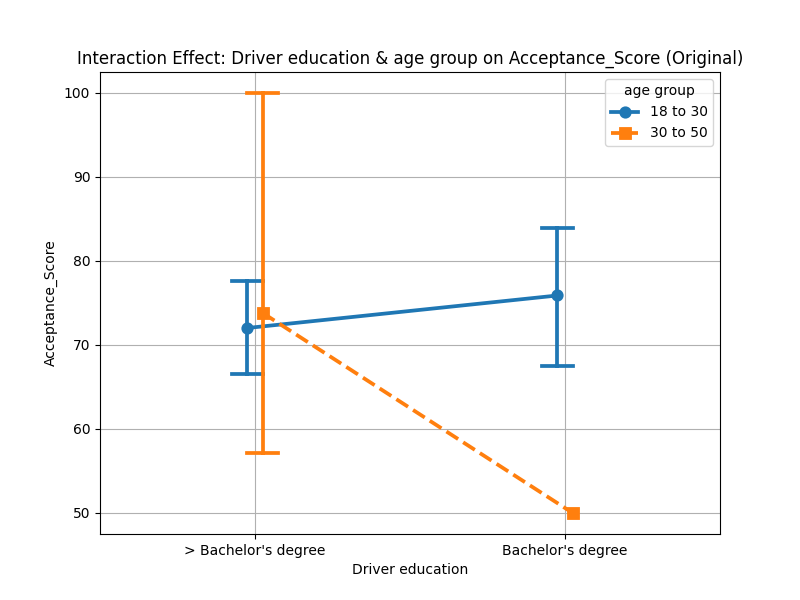
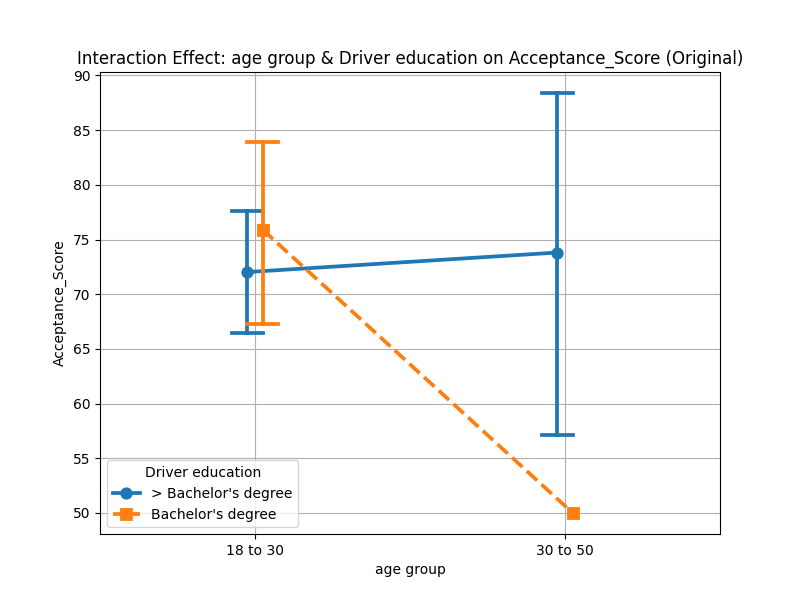
fix: improve code

diff --git a/age_education_effect_analysis.py b/age_education_effect_analysis.py
@@ -1,9 +1,7 @@
 # This code is for analysis for effect of interaction of age group and driver education on technology(adas)
 
-import seaborn as sns
-import matplotlib.pyplot as plt
 from utils import (
-    load_data, check_reliability, check_normality, calculate_acceptance_score, save_updated_data, count_combinations
+    load_data, check_reliability, check_normality, calculate_acceptance_score, save_updated_data, count_combinations,plot_interaction_effect, compute_summary_stats
 )
 from parametric_tests import two_way_anova
 from non_parametric_tests import art_anova
@@ -66,55 +64,35 @@ else:
 print("\n📊 **P-Value Results Summary:**")
 for test, p_val in p_values.items():
     if isinstance(p_val, (int, float)):  # Ensures it's a number before formatting
-        print(f"{test}: p = {p_val:.5f} {'Significant' if p_val < 0.01 else '❌ Not Significant'}")
+        print(f"{test}: p = {p_val:.5f} {'✅ Significant' if p_val < 0.1 else '❌ Not Significant'}")
     else:
         print(f"{test}: {p_val} (Invalid result, check ANOVA output)")
 
-
-
-def plot_interaction_effect(df, age_var, education_var, target_var, dataset_name):
-    """
-    Creates an interaction plot for Age Group and Driver Education on Acceptance Score.
-    Handles missing values (NaN) to avoid KeyErrors in Seaborn's pointplot.
-    """
-    # print(f"\n🔍 Unique values in '{age_var}' ({dataset_name}): {df[age_var].unique()}")
-    # print(f"🔍 Unique values in '{education_var}' ({dataset_name}): {df[education_var].unique()}")
-
-    # Step 1: Remove spaces and convert to string (ensures category consistency)
-    df[age_var] = df[age_var].astype(str).str.strip()
-    df[education_var] = df[education_var].astype(str).str.strip()
-
-    # Step 2: Fill missing values (NaN) with "Unknown" to avoid KeyErrors
-    df[education_var] = df[education_var].fillna("Unknown")
-    df[age_var] = df[age_var].fillna("Unknown")
-
-    # Step 3: Drop rows where the target variable is NaN (ensures valid plotting)
-    df = df.dropna(subset=[target_var])
-
-    # Step 4: Plot
-    plt.figure(figsize=(8, 6))
-    try:
-        sns.pointplot(
-            x=age_var, y=target_var, hue=education_var, data=df,
-            capsize=0.1, dodge=True, markers=["o", "s", "d"], linestyles=["-", "--", ":"]
-        )
-        plt.title(f"Interaction Effect: {age_var} & {education_var} on {target_var} ({dataset_name})")
-        plt.xlabel(age_var)
-        plt.ylabel(target_var)
-        plt.legend(title=education_var)
-        plt.grid(True)
-        plt.savefig(f"plot/{dataset_name.lower()}_interaction_age_education.png")
-        print(f"\n✅ Plot saved as 'plot/{dataset_name.lower()}_interaction_age_education.png'")
-
-    except KeyError as e:
-        print(f"\n❌ KeyError: {e}")
-        print("🔹 Possible causes: Category missing or incorrectly formatted.")
-
 # Generate interaction effect plots
-plot_interaction_effect(df_original, "Driver education", "age group",  target_variable, "Original")
-plot_interaction_effect(df_perceived, "Driver education", "age group",  target_variable, "Perceived")
+plot_interaction_effect(df_original, categorical_vars[0], categorical_vars[1],  target_variable, "Original", "original_interaction_age_education")
+plot_interaction_effect(df_perceived, categorical_vars[0], categorical_vars[1],  target_variable, "Perceived", "perceived_interaction_age_education")
 
 # Count for Original Data and Percieved Data
-count_original = count_combinations(df_original, "Driver education", "age group", "Original")
-count_perceived = count_combinations(df_perceived, "Driver education" , "age group", "Perceived")
+count_original = count_combinations(df_original, categorical_vars[0], categorical_vars[1], "Original")
+count_perceived = count_combinations(df_perceived, categorical_vars[0], categorical_vars[1], "Perceived")
 
+# Compute summary stats for both datasets
+summary_original = compute_summary_stats(df_original, categorical_vars, target_variable)
+summary_perceived = compute_summary_stats(df_perceived, categorical_vars, target_variable)
+
+# Print Summary Stats
+print("\n📊 **Summary Statistics for Original Data:**")
+for var, stats in summary_original.items():
+    print(f"\n🔹 {var}:")
+    if isinstance(stats, dict):  # Handling interaction effect separately
+        print(f"   Mean: {stats['Mean']:.2f}, Median: {stats['Median']:.2f}, Std: {stats['Std']:.2f}")
+    else:
+        print(stats.to_string())
+
+print("\n📊 **Summary Statistics for Perceived Data:**")
+for var, stats in summary_perceived.items():
+    print(f"\n🔹 {var}:")
+    if isinstance(stats, dict):  # Handling interaction effect separately
+        print(f"   Mean: {stats['Mean']:.2f}, Median: {stats['Median']:.2f}, Std: {stats['Std']:.2f}")
+    else:
+        print(stats.to_string())
